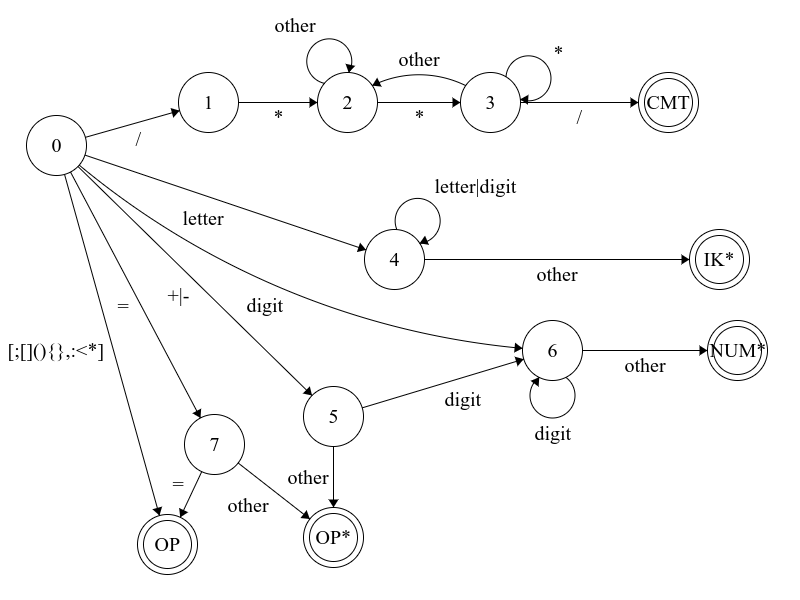
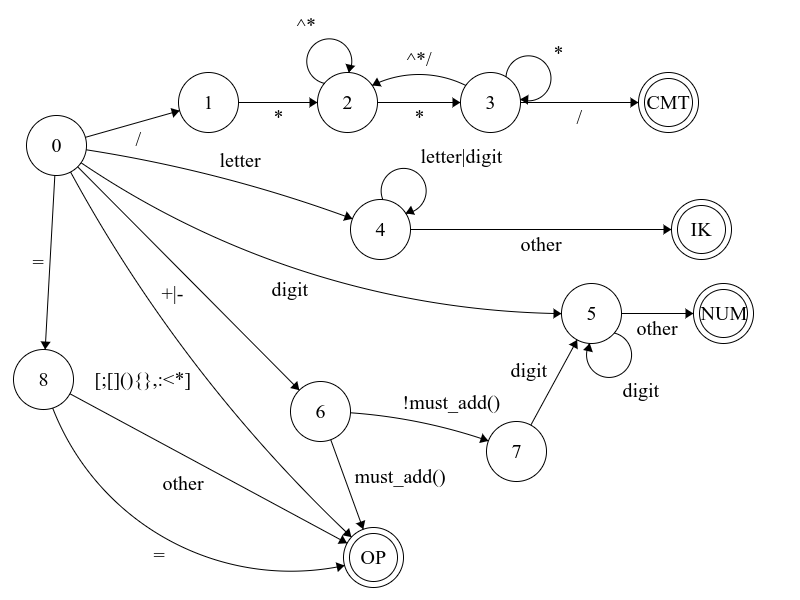
init scanner

diff --git a/scanner/scanner.py b/scanner/scanner.py
@@ -1,0 +1,104 @@
+from warnings import warn
+import re
+
+
+def other():
+    return True
+
+
+class Scanner:
+    def __init__(self, code_address):
+        local_fsm, self.state_funcs, self.keywords = self._define_lang()
+        self.fsm = self._bake_fsm(local_fsm)
+        self.last_term = (None, None)
+        self.cur_term = (None, "")
+        self.code = open(code_address)
+        self.current_char = self._next_char()
+        if self.current_char is None:
+            raise Exception("Code is empty!")
+
+    def _define_lang(self):
+        return {0: [('/', 1), ('[A-Za-z]', 4), ('[0-9]', 5), ('[+-]', 6), ('=', 8), ('[;\[\](){},:<*]', 'OP')],
+                1: [('*', 2), ],
+                2: [('*', 3), ('^[*]', 2), ],
+                3: [('*', 3), ('/', 'CMT'), ('^[*/]', 2)],
+                4: [('[A-Za-z0-9]', 4), (other, 'IK')],
+                5: [('[0-9]', 5), (other, 'NUM')],
+                6: [(self._must_add, 'OP'), (other, 7)],
+                7: [('[0-9]', 5)],
+                8: [('=', 'OP'), [other, 'OP']]}, \
+               {'OP': self._token_operator,
+                'CMT': self._token_comment,
+                'IK': self._token_id_or_keyword,
+                'NUM': self._token_num,
+                }, ['return', 'break', 'continue', 'int', 'void', 'if', 'while', 'switch', 'case']
+
+    def _next_char(self):
+        chunk_size = 1024
+        while True:
+            data = self.code.read(chunk_size)
+            if not data:
+                break
+            for c in data:
+                yield str(c)
+        return None
+
+    def _must_add(self):
+        return self.last_term[0] in ['NUM', 'id'] or self.last_term[1] in [')', ']']
+
+    def _bake_fsm(self, fsm):
+        baked_fsm = {}
+        for state in fsm:
+            baked_fsm[state] = [(cond if type(cond) != str else self._create_matcher_function(cond), nxt_state) for
+                                cond, nxt_state in fsm[state]]
+        return baked_fsm
+
+    def _create_matcher_function(self, pattern):
+        p = re.compile(pattern)
+
+        def fun():
+            if p.match(self.current_char) is not None:
+                self.cur_term[1] += self.current_char
+                self.current_char = self._next_char()
+                return True
+            return False
+
+        return fun
+
+    def get_token(self):
+        if self.current_char is None:
+            warn("End of file")
+            return None
+        state = 0
+        while True:
+            for cond, nxt_state in self.fsm[state]:
+                if cond():
+                    state = nxt_state
+                    if state in self.state_funcs:
+                        ans = function(self.state_funcs[state])()
+                        if ans is not None:
+                            return ans
+                    break
+
+    def _token_operator(self):
+        self.cur_term[0] = "OP"
+        self.last_term, self.cur_term = self.cur_term, (None, "")
+        return self.last_term
+
+    def _token_comment(self):
+        self.cur_term[0] = "CMT"
+        self.last_term, self.cur_term = self.cur_term, (None, "")
+        return self.last_term
+
+    def _token_id_or_keyword(self):
+        if self.cur_term[1] in self.keywords:
+            self.cur_term[0] = "keyword"
+        else:
+            self.cur_term[0] = "ID"
+        self.last_term, self.cur_term = self.cur_term, (None, "")
+        return self.last_term
+
+    def _token_num(self):
+        self.cur_term = ("NUM", int(self.cur_term[1]))
+        self.last_term, self.cur_term = self.cur_term, (None, "")
+        return self.last_term
